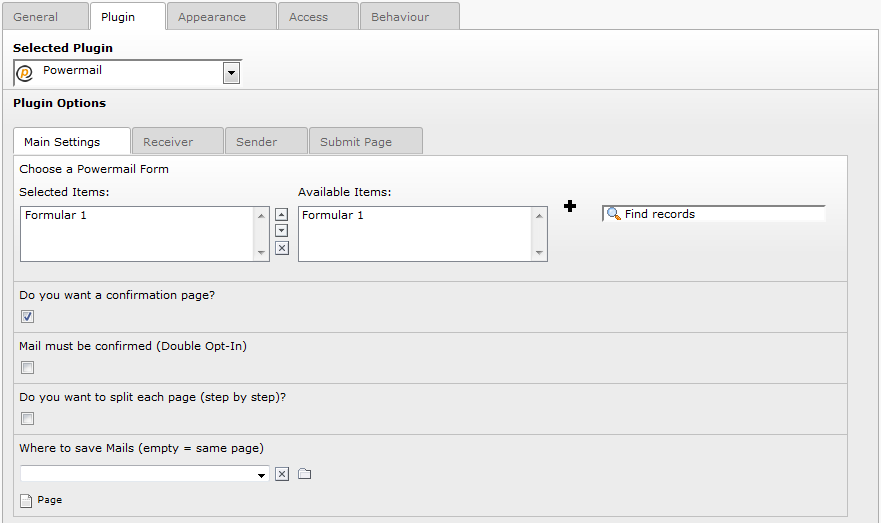
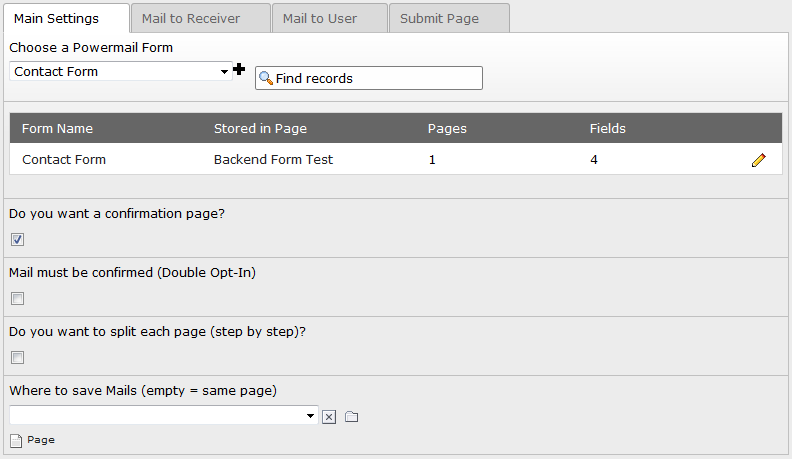
RST Documentation - Step 2

diff --git a/Documentation/ForEditors/AddANewPlugin/Index.rst b/Documentation/ForEditors/AddANewPlugin/Index.rst
@@ -31,6 +31,7 @@ You will find the plugin settings within the tab “Plugin”. In this
 area you see another four tabs (Main Settings, Receiver, Sender,
 Submit Page).
 
+|img-72b|
 
 Main Settings
 ~~~~~~~~~~~~~

diff --git a/Documentation/ForEditors/AddANewForm/Index.rst b/Documentation/ForEditors/AddANewForm/Index.rst
@@ -1,4 +1,4 @@
-.. include:: Images.txt
+.. include:: Images.txt
 
 .. ==================================================
 .. FOR YOUR INFORMATION
